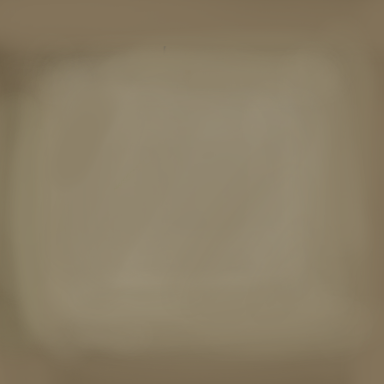
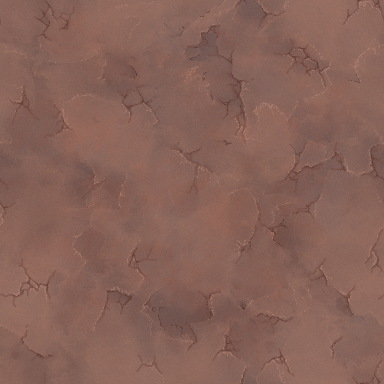
init

diff --git a/data/upgrades.js b/data/upgrades.js
@@ -496,7 +496,7 @@ const UPGRADES = [
     id: 20,
     name: "Stomp",
     description:
-      "Unlock the stomp ability, allowing you to crush Tier I enemies without taking damage.",
+      "Unlock the stomp ability, allowing you to crush Tier I enemies while taking greatly reduced damage.",
     prerequisite: 0,
     levels: [{ cost: 100, effect: true }],
     applyUpgrade: (level) => {
@@ -514,7 +514,7 @@ const UPGRADES = [
   {
     id: 21,
     name: "Stomp II",
-    description: "Allows Stomp to crush Tier II enemies.",
+    description: "Allows Stomp to crush Tier II enemies while taking greatly reduced damage.",
     prerequisite: 20,
     levels: [
       { cost: 400, effect: 1.2 },
@@ -534,7 +534,7 @@ const UPGRADES = [
   {
     id: 22,
     name: "Stomp III",
-    description: "Allows Stomp to crush Tier III enemies.",
+    description: "Allows Stomp to crush Tier III enemies while taking greatly reduced damage.",
     prerequisite: 21,
     levels: [
       { cost: 1200, effect: 1.2 },
@@ -554,7 +554,7 @@ const UPGRADES = [
   {
     id: 23,
     name: "Stomp IV",
-    description: "Allows Stomp to crush Tier IV enemies.",
+    description: "Allows Stomp to crush Tier IV enemies while taking greatly reduced damage.",
     prerequisite: 22,
     levels: [
       { cost: 2000, effect: 1.2 },
@@ -816,11 +816,11 @@ const UPGRADES = [
     description: "Increase the number of Tier I enemies.",
     prerequisite: 0,
     levels: [
-      { cost: 20, effect: 15 },
-      { cost: 60, effect: 20 },
-      { cost: 150, effect: 30 },
-      { cost: 300, effect: 40 },
-      { cost: 600, effect: 50 }
+      { cost: 20, effect: 25 },
+      { cost: 60, effect: 30 },
+      { cost: 150, effect: 40 },
+      { cost: 300, effect: 50 },
+      { cost: 600, effect: 60 }
     ],
     applyUpgrade: (level) => {
       gameState.upgrades.spawns.tier1.units =

diff --git a/js/scenes/battleScene.js b/js/scenes/battleScene.js
@@ -137,7 +137,9 @@ let battleScene = new Phaser.Class({
         player.energy = -100000;
       } else {
         if (gameState.upgrades.abilities.stomp < enemy.tier) {
-          player.energy -= 1000;
+          player.energy -= enemy.maxHealth * 10;
+        } else {
+          player.energy -= enemy.maxHealth * 2;
         }
         enemy.die(player.x, player.y);
       }

diff --git a/js/classes/enemy.js b/js/classes/enemy.js
@@ -44,6 +44,7 @@ class Enemy extends Phaser.GameObjects.Container {
       this.damage = this.damage * 2
       this.health = this.health * 2
       this.healthMax = this.healthMax * 2
+      this.value = this.value * 4
       this.aura = scene.add.image(0, 0, "aura");
       scene.tweens.add({
         targets: this.aura,

diff --git a/js/classes/enemies/t1.js b/js/classes/enemies/t1.js
@@ -10,7 +10,7 @@ class T1 extends Enemy {
     this.damage = 0
     this.health = 80
     this.healthMax = 80
-    this.value = Random.between(1,3)
+    this.value = Random.between(2,4)
     this.checkPromotion();
 
     this.target = new Phaser.Math.Vector2(

diff --git a/js/globals.js b/js/globals.js
@@ -19,7 +19,7 @@ const gameStateTemplate  = {
       rocket: {
         enabled: false,
         double: false,
-        damage: 100,
+        damage: 50,
         fireRate: 3500,
         splash: 50,
         speed: 200,
